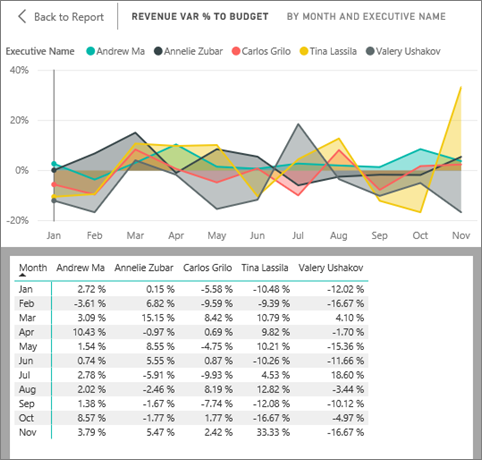
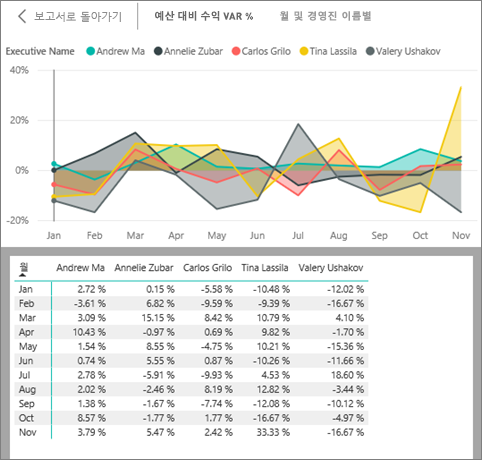
commit translated contents

Changed region(s): [[0.0622, 0.0, 0.9336, 0.0609], [0.0311, 0.5478, 0.0934, 0.6087]]

diff --git a/powerbi-docs/report-server/quickstart-create-powerbi-report.md b/powerbi-docs/report-server/quickstart-create-powerbi-report.md
@@ -17,7 +17,7 @@ ms.lasthandoff: 06/04/2018
 ms.locfileid: "34481420"
 ---
 # <a name="create-a-power-bi-report-for-power-bi-report-server"></a>Power BI Report Server용 Power BI 보고서 만들기
-Power BI 서비스(https://powerbi.com))에서 클라우드에 Power BI 보고서를 저장할 수 있는 것과 마찬가지로 Power BI Report Server 웹 포털에서 Power BI 보고서 온-프레미스를 저장하고 관리할 수 있습니다. Power BI Desktop에서 보고서를 만들고 편집하고 웹 포털에 게시합니다. 그런 다음 조직의 보고서 판독기는 모바일 장치의 브라우저 또는 Power BI 모바일 앱에서 해당 보고서를 볼 수 있습니다.
+Power BI 서비스 (https://powerbi.com) 에서 클라우드에 Power BI 보고서를 저장할 수 있는 것과 마찬가지로 Power BI Report Server 웹 포털에서 Power BI 보고서 온-프레미스를 저장하고 관리할 수 있습니다. Power BI Desktop에서 보고서를 만들고 편집하고 웹 포털에 게시합니다. 그런 다음 조직의 보고서 판독기는 모바일 장치의 브라우저 또는 Power BI 모바일 앱에서 해당 보고서를 볼 수 있습니다.
 
 ![웹 포털의 Power BI 보고서](media/quickstart-create-powerbi-report/report-server-powerbi-report.png)
 
@@ -93,7 +93,7 @@ Power BI Desktop에서 Power BI 보고서를 이미 만든 경우 Power BI Repor
     ![웹 포털에서 보고서 보기](media/quickstart-create-powerbi-report/report-server-powerbi-report.png)
 
 ## <a name="considerations-and-limitations"></a>고려 사항 및 제한 사항
-Power BI Report Server 및 Power BI 서비스(http://powerbi.com))의 보고서는 거의 동일한 역할을 담당하지만 몇 가지 다른 기능이 있습니다.
+Power BI Report Server 및 Power BI 서비스 (http://powerbi.com) 의 보고서는 거의 동일한 역할을 담당하지만 몇 가지 다른 기능이 있습니다.
 
 ### <a name="in-a-browser"></a>브라우저에서
 Power BI Report Server 보고서는 다음을 비롯한 모든 시각화를 지원합니다.

diff --git a/powerbi-docs/service-connect-to-zuora.md b/powerbi-docs/service-connect-to-zuora.md
@@ -32,7 +32,7 @@ Power BI용 [Zuora](https://app.powerbi.com/getdata/services/Zuora)에 연결합
 3. **Zuora** \>  **가져오기**를 선택합니다.
 
    ![](media/service-connect-to-zuora/zuora.png)
-4. Zuora URL을 지정합니다. 이는 일반적으로 "https://www.zuora.com"이며, 아래 [이러한 매개 변수 찾기](#FindingParams)에서 세부 정보를 참조하세요.
+4. Zuora URL을 지정합니다. 이는 일반적으로 " https://www.zuora.com "이며, 아래 [이러한 매개 변수 찾기](#FindingParams)에서 세부 정보를 참조하세요.
 
    ![](media/service-connect-to-zuora/params.png)
 5. **인증 방법**에 대해 **기본** 을 선택하고, 사용자 이름 및 암호(대/소문자 구분)를 제공한 다음 **로그인**을 선택합니다.
